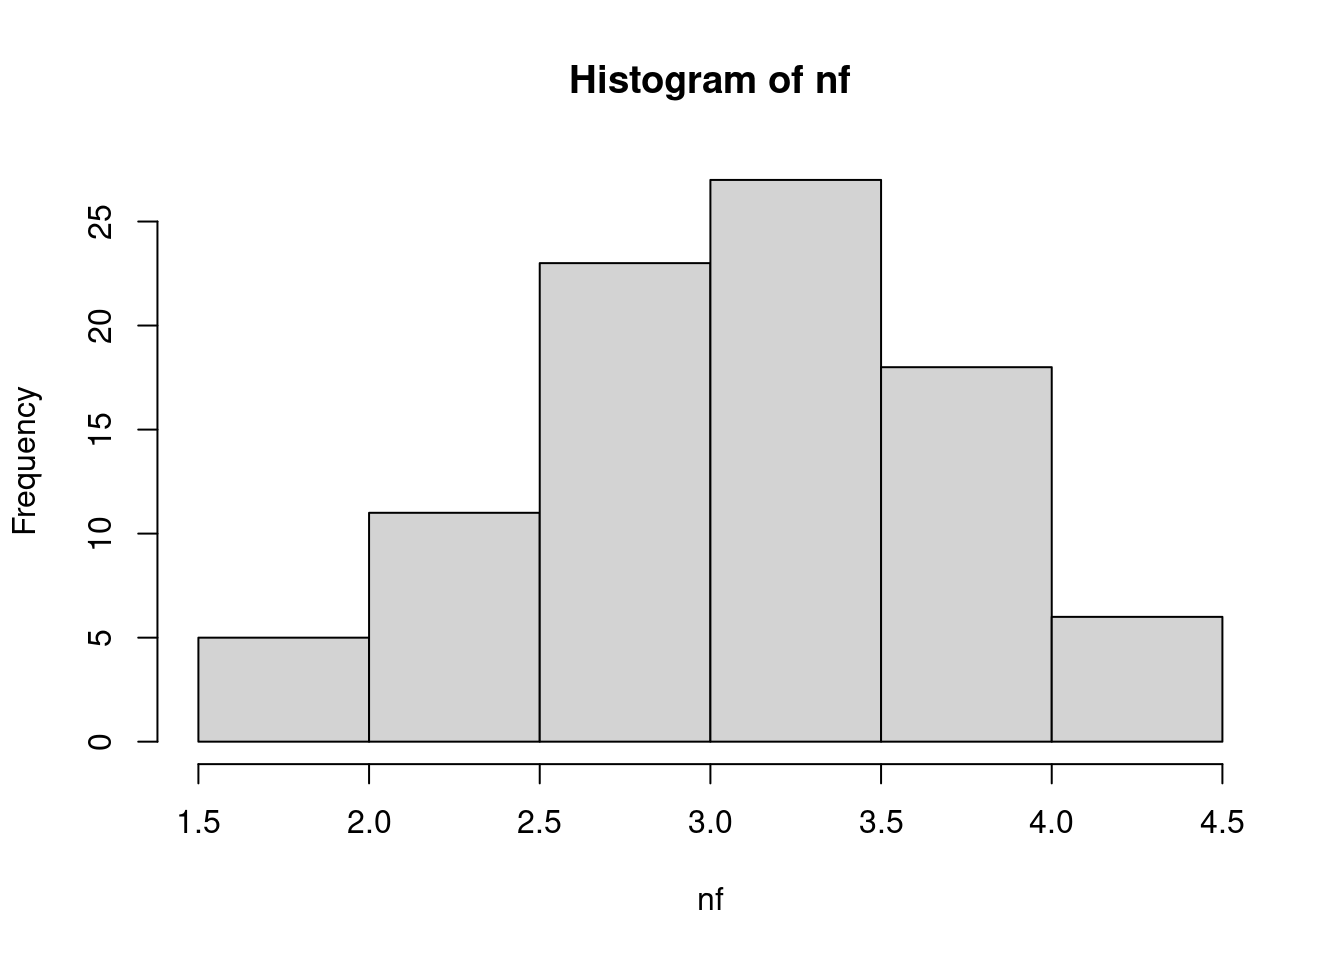
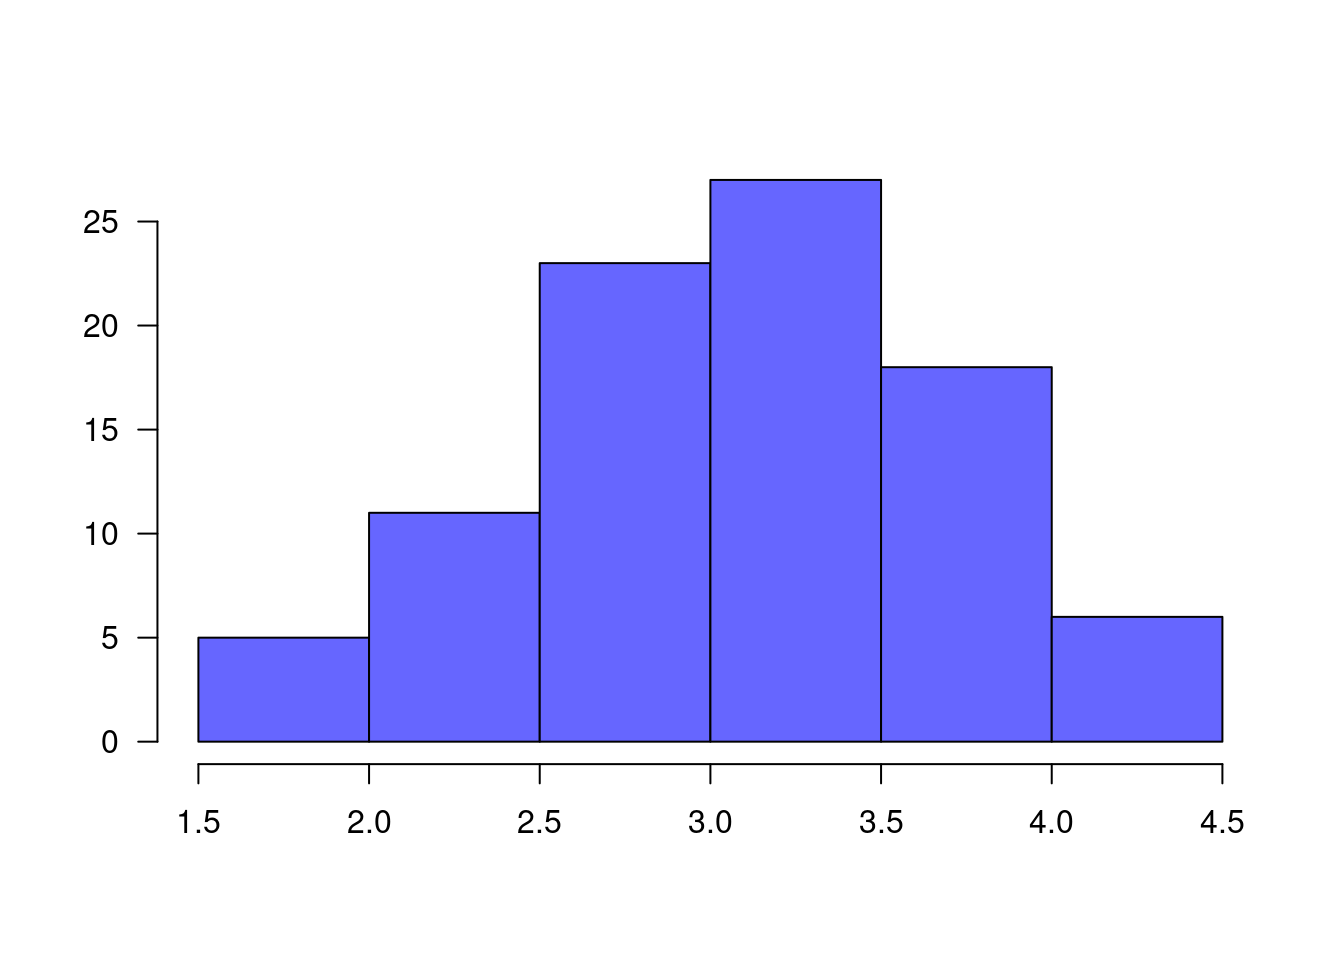
ajustes guia 4.3

diff --git a/Guia403.html b/Guia403.html
@@ -1432,23 +1432,19 @@ X-squared = 3.6, df = 3, p-value = 0.308</code></pre>
 </tr>
 </tbody>
 </table>
-<pre class="r"><code>nf=c(4.1, 2.7, 3.1, 3.2, 3.0, 3.2, 2.0, 2.4, 1.6, 3.2, 3.1, 2.6, 2.0, 2.4, 2.8, 
-     3.3, 4.0, 3.4, 3.0, 3.1, 2.7, 2.7, 3.0, 3.8, 3.2, 2.2, 3.5, 3.5, 3.8, 3.5, 
-     3.9, 4.2, 4.3, 3.9, 3.2, 3.5, 3.5, 3.7, 4.1, 3.7, 3.5, 3.6, 3.2, 3.1, 3.4, 
-     3.0, 3.0, 3.0, 2.7, 1.7, 3.6, 2.1, 2.4, 3.0, 3.1, 2.5, 2.5, 3.6, 2.2, 2.4,
-     3.1, 3.3, 2.7, 3.7, 3.0, 2.7, 3.0, 3.2, 3.1, 2.4, 3.0, 2.7, 2.5, 3.0, 3.0, 
-     3.0, 3.2, 3.1, 3.8, 4.1, 3.7, 3.5, 3.0, 3.7, 3.7, 4.1, 3.7, 3.9, 3.7, 2.0)
+<pre class="r"><code>nf=c(4.1, 2.7, 3.1, 3.2, 3.0, 3.2, 2.0, 2.4, 1.6, 3.2, 3.1, 2.6, 2.0, 2.4, 2.8, 3.3, 4.0, 3.4, 3.0, 3.1, 2.7, 2.7, 3.0, 3.8, 3.2, 2.2, 3.5, 3.5, 3.8, 3.5, 3.9, 4.2, 4.3, 3.9, 3.2, 3.5, 3.5, 3.7, 4.1, 3.7, 3.5, 3.6, 3.2, 3.1, 3.4, 3.0, 3.0, 3.0, 2.7, 1.7, 3.6, 2.1, 2.4, 3.0, 3.1, 2.5, 2.5, 3.6, 2.2, 2.4, 3.1, 3.3, 2.7, 3.7, 3.0, 2.7, 3.0, 3.2, 3.1, 2.4, 3.0, 2.7, 2.5, 3.0, 3.0, 3.0, 3.2, 3.1, 3.8, 4.1, 3.7, 3.5, 3.0, 3.7, 3.7, 4.1, 3.7, 3.9, 3.7, 2.0)
 
-h=hist(nf)</code></pre>
+h=hist(nf, las=1, col=c2, main=&quot; &quot;, xlab=&quot; &quot;, ylab=&quot; &quot;)</code></pre>
 <p><img src="Guia403_files/figure-html/unnamed-chunk-19-1.png" width="672" /></p>
 <pre class="r"><code>lim.nf=h$breaks # cortes de los intervalos
 obs.nf=h$counts   # valores observados 
 mx=mean(nf)     # media
-sdx=sd(nf)          # desviacion estandar
+sdx=sd(nf)          # desviación estandar
 Fx.nf=pnorm(lim.nf, mx,sdx)   # probabilidades en caso de que Ho sea verdadera
 prob.nf=Fx.nf[2:7]-Fx.nf[1:6]
 esp.nf=prob.nf+0.002300453     # ajuste para que el sum(esp.nf)=1
- chisq.test(x=obs.nf,p=esp.nf)</code></pre>
+
+chisq.test(x=obs.nf,p=esp.nf)</code></pre>
 <pre><code>Warning in chisq.test(x = obs.nf, p = esp.nf): Chi-squared approximation may be
 incorrect</code></pre>
 <pre><code>
@@ -1806,8 +1802,8 @@ runs.test(y)</code></pre>
     Runs Test
 
 data:  y
-statistic = 1.8092, runs = 60, n1 = 50, n2 = 50, n = 100, p-value =
-0.07043
+statistic = -0.20102, runs = 50, n1 = 50, n2 = 50, n = 100, p-value =
+0.8407
 alternative hypothesis: nonrandomness</code></pre>
 <p><br/><br/></p>
 </div>
@@ -1825,7 +1821,7 @@ plot(density(x), main=&quot; &quot;, las=1)</code></pre>
     Shapiro-Wilk normality test
 
 data:  x
-W = 0.99259, p-value = 0.4087</code></pre>
+W = 0.99503, p-value = 0.7547</code></pre>
 <p>Esta prueba no requiere la instalación de paquetes adicionales, pues está disponible en la configuración básica de R</p>
 <p>Como el valor-p es superior al nivel de significancia <span class="math inline">\(\alpha\)</span>, no se rechaza <span class="math inline">\(Ho\)</span>, se asume que la distribución de la variable es normal.</p>
 <p>Otras pruebas de normalidad utilizadas con frecuencia son:</p>
@@ -1837,19 +1833,19 @@ jb.norm.test(x)  # Test de normalidad de Jarque-Bera</code></pre>
     Jarque-Bera test for normality
 
 data:  x
-JB = 0.93265, p-value = 0.607</code></pre>
+JB = 0.22938, p-value = 0.8935</code></pre>
 <pre class="r"><code>kurtosis.norm.test(x)</code></pre>
 <pre><code>
     Kurtosis test for normality
 
 data:  x
-T = 2.9054, p-value = 0.775</code></pre>
+T = 3.0154, p-value = 0.959</code></pre>
 <pre class="r"><code>skewness.norm.test(x)   </code></pre>
 <pre><code>
     Skewness test for normality
 
 data:  x
-T = 0.16044, p-value = 0.3375</code></pre>
+T = 0.082598, p-value = 0.626</code></pre>
 <pre class="r"><code># install.packages(&quot;nortets&quot;)
 library(nortest)
 
@@ -1858,13 +1854,13 @@ lillie.test(x) # Kolmogorov-Smirnov</code></pre>
     Lilliefors (Kolmogorov-Smirnov) normality test
 
 data:  x
-D = 0.045988, p-value = 0.3807</code></pre>
+D = 0.041913, p-value = 0.5312</code></pre>
 <pre class="r"><code>pearson.test(x) # chi-cuadrado de Pearson</code></pre>
 <pre><code>
     Pearson chi-square normality test
 
 data:  x
-P = 18.79, p-value = 0.1731</code></pre>
+P = 21.68, p-value = 0.08543</code></pre>
 <p><br/><br/></p>
 <p><br/><br/><br/><br/></p>
 </div>
